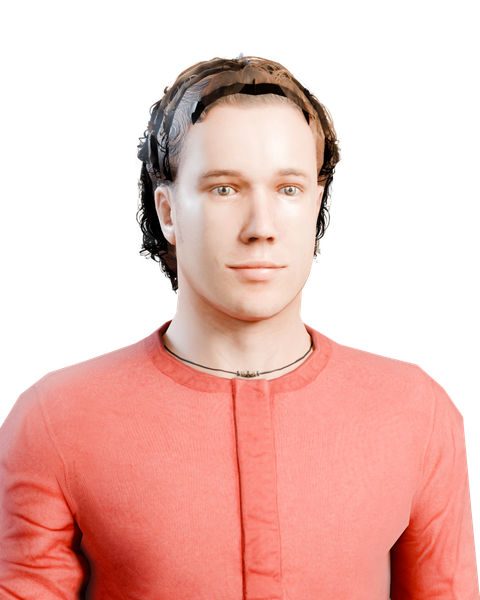
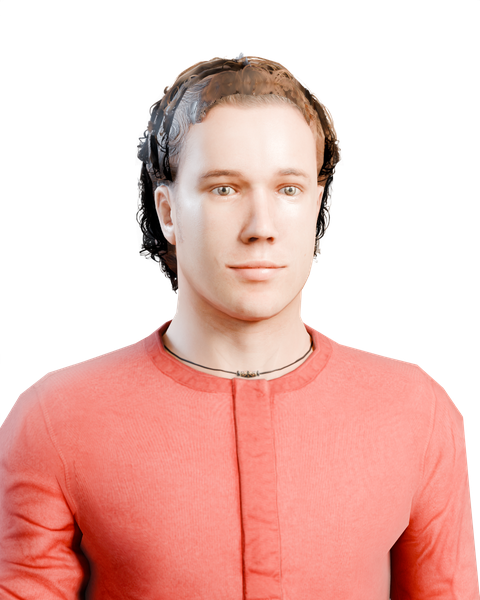
claude-faisallaptop: paint over the dark band in Jeff's hair
Jeff's baked renders (portrait, three faces, body) show black scalp through a
gap between his hair cards and head: a dark band across the top of his head on
the Staff screen, StaffHire, dialogue and customer cards. Re-rendering needs
the Rocketbox library, which isn't on this machine, so tools/retouch_hair_gap.py
fills the gap with hair texture mirrored from just above it, inside a box per
image. Alpha is unchanged; the originals stay in git history.

Marco's "head cut off" (issue #9 finding 6) was the two top toasts covering his
head, fixed by moving toasts (PR #13); no change here.

tests/smoke_test.gd passes; before/after in docs/playtests/2026-10-17-ca-3-fix-3.

Agent: claude-faisallaptop

Changed region(s): [[0.375, 0.12, 0.6562, 0.21]]

diff --git a/tools/retouch_hair_gap.py b/tools/retouch_hair_gap.py
@@ -1,0 +1,48 @@
+"""Retouch: fill the dark gap a hair-card mesh leaves between hair and scalp in a baked people render.
+
+The Rocketbox render of Jeff (tools/people3d.py) shows black scalp through a gap at the hairline, as a dark band
+across his head in jeff_portrait/face/body.png. Re-rendering needs the Rocketbox library, so this paints over the
+gap instead: inside a box around it, near-black opaque pixels (and their dark anti-aliased rim) take the hair
+texture mirrored upward from just above the gap, then the seam is softened a little. Alpha is untouched.
+
+Usage: python -I tools/retouch_hair_gap.py <src.png> <dst.png> <x0,y0,x1,y1>
+Boxes used for Jeff (2026-10-17): portrait 188,78,314,126; face_* 108,30,157,48; body 133,9,171,25.
+"""
+import sys
+import numpy as np
+from PIL import Image
+from scipy import ndimage
+
+src, dst = sys.argv[1], sys.argv[2]
+a = np.array(Image.open(src).convert("RGBA")).astype(float)
+h, w = a.shape[:2]
+x0, y0b, x1, y1b = (int(v) for v in sys.argv[3].split(","))   # box around the gap, from a gridded zoom
+lum = a[..., 0] * 0.3 + a[..., 1] * 0.59 + a[..., 2] * 0.11
+op = a[..., 3] > 200
+box = np.zeros((h, w), bool)
+box[y0b:y1b + 1, x0:x1 + 1] = True
+mask = (lum < 70) & op & box
+mask = mask | (ndimage.binary_dilation(mask, iterations=1) & (lum < 100) & op & box)
+print(src, "filled px", int(mask.sum()))
+out = a.copy()
+for x in range(w):
+    col = np.nonzero(mask[:, x])[0]
+    if col.size == 0:
+        continue
+    # runs of masked rows in this column
+    runs = np.split(col, np.nonzero(np.diff(col) > 1)[0] + 1)
+    for r in runs:
+        y0, y1 = r[0], r[-1]
+        L = y1 - y0 + 1
+        for k in range(L):
+            sy = y0 - 1 - k  # mirror upward from the run's top edge
+            while sy >= 0 and mask[sy, x]:
+                sy -= 1
+            if sy < 0 or a[sy, x, 3] < 200:
+                sy = y0 - 1
+            out[y0 + k, x, :3] = a[max(sy, 0), x, :3]
+# soften the seam a touch inside the filled area only
+blur = ndimage.uniform_filter(out[..., :3], size=(3, 3, 1))
+mm = ndimage.binary_dilation(mask, iterations=1)
+out[mm, :3] = out[mm, :3] * 0.5 + blur[mm] * 0.5
+Image.fromarray(np.clip(out, 0, 255).astype(np.uint8), "RGBA").save(dst)
